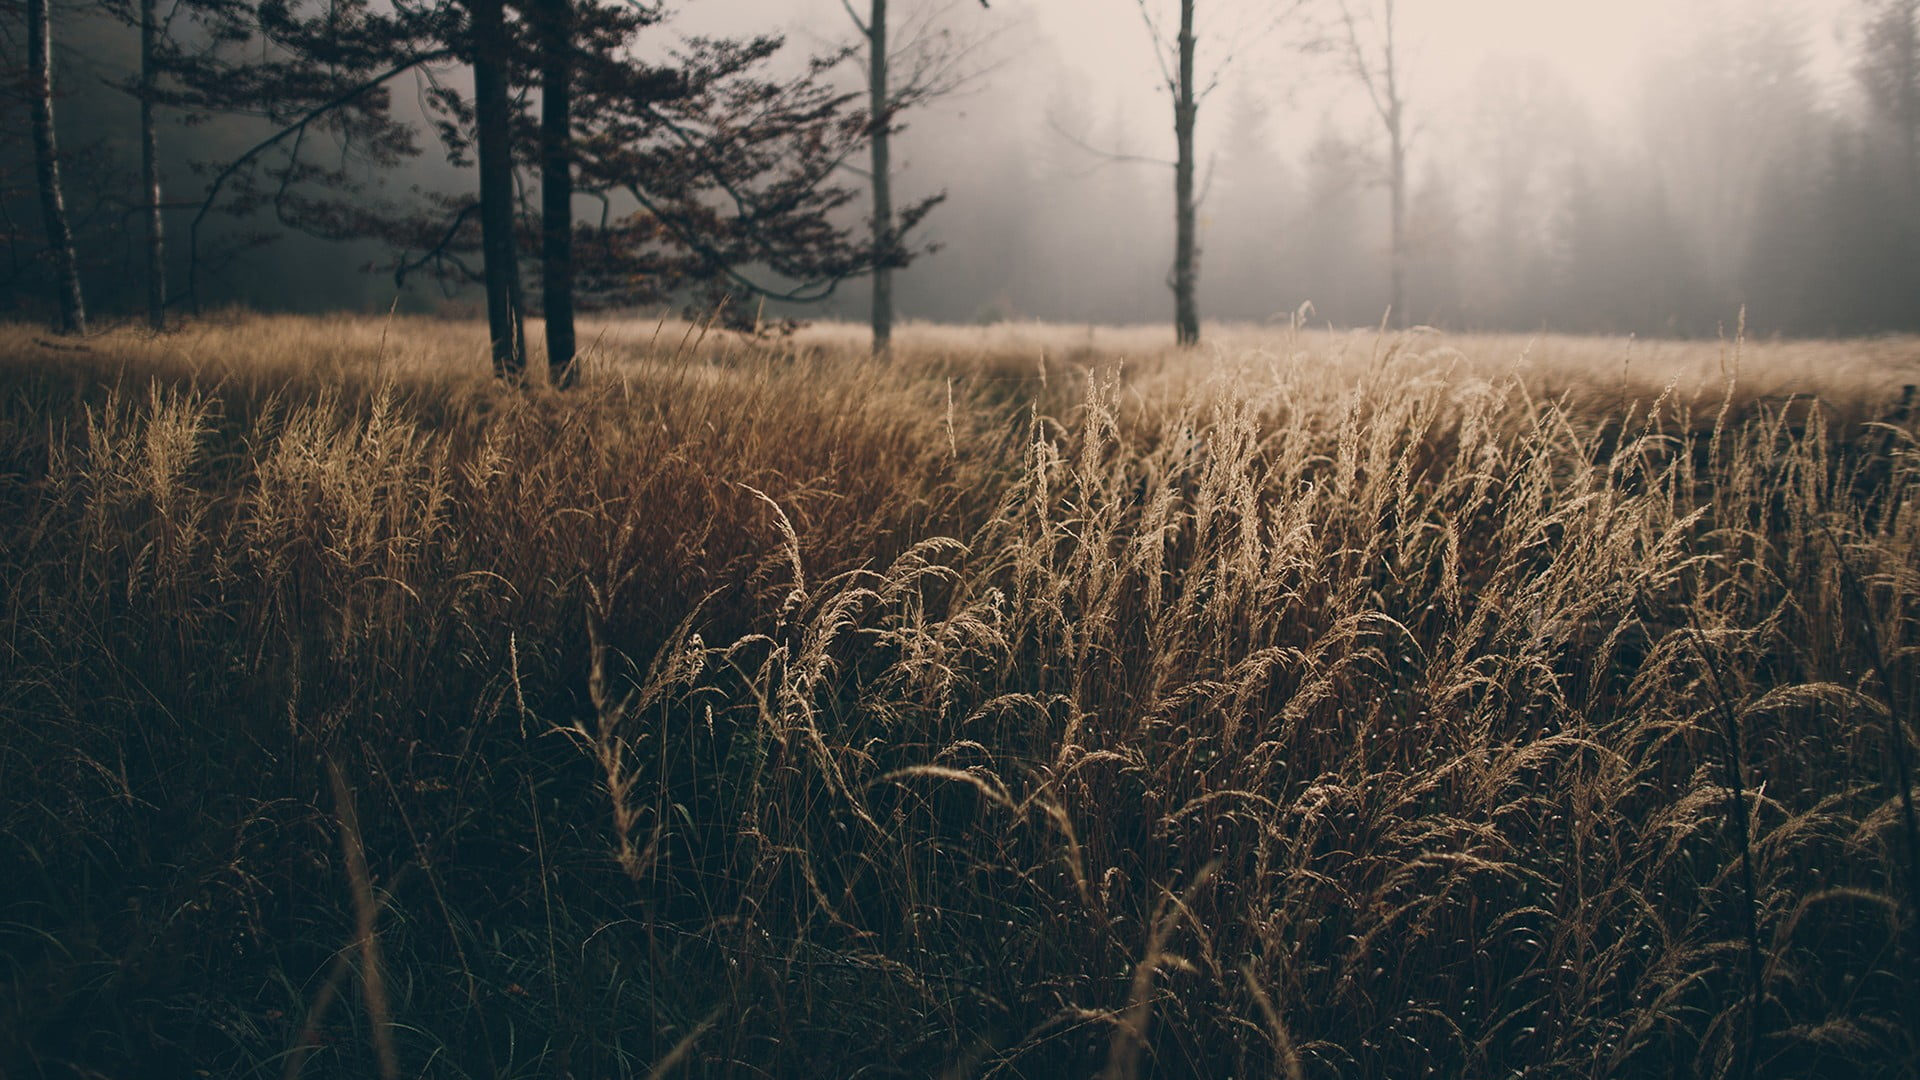
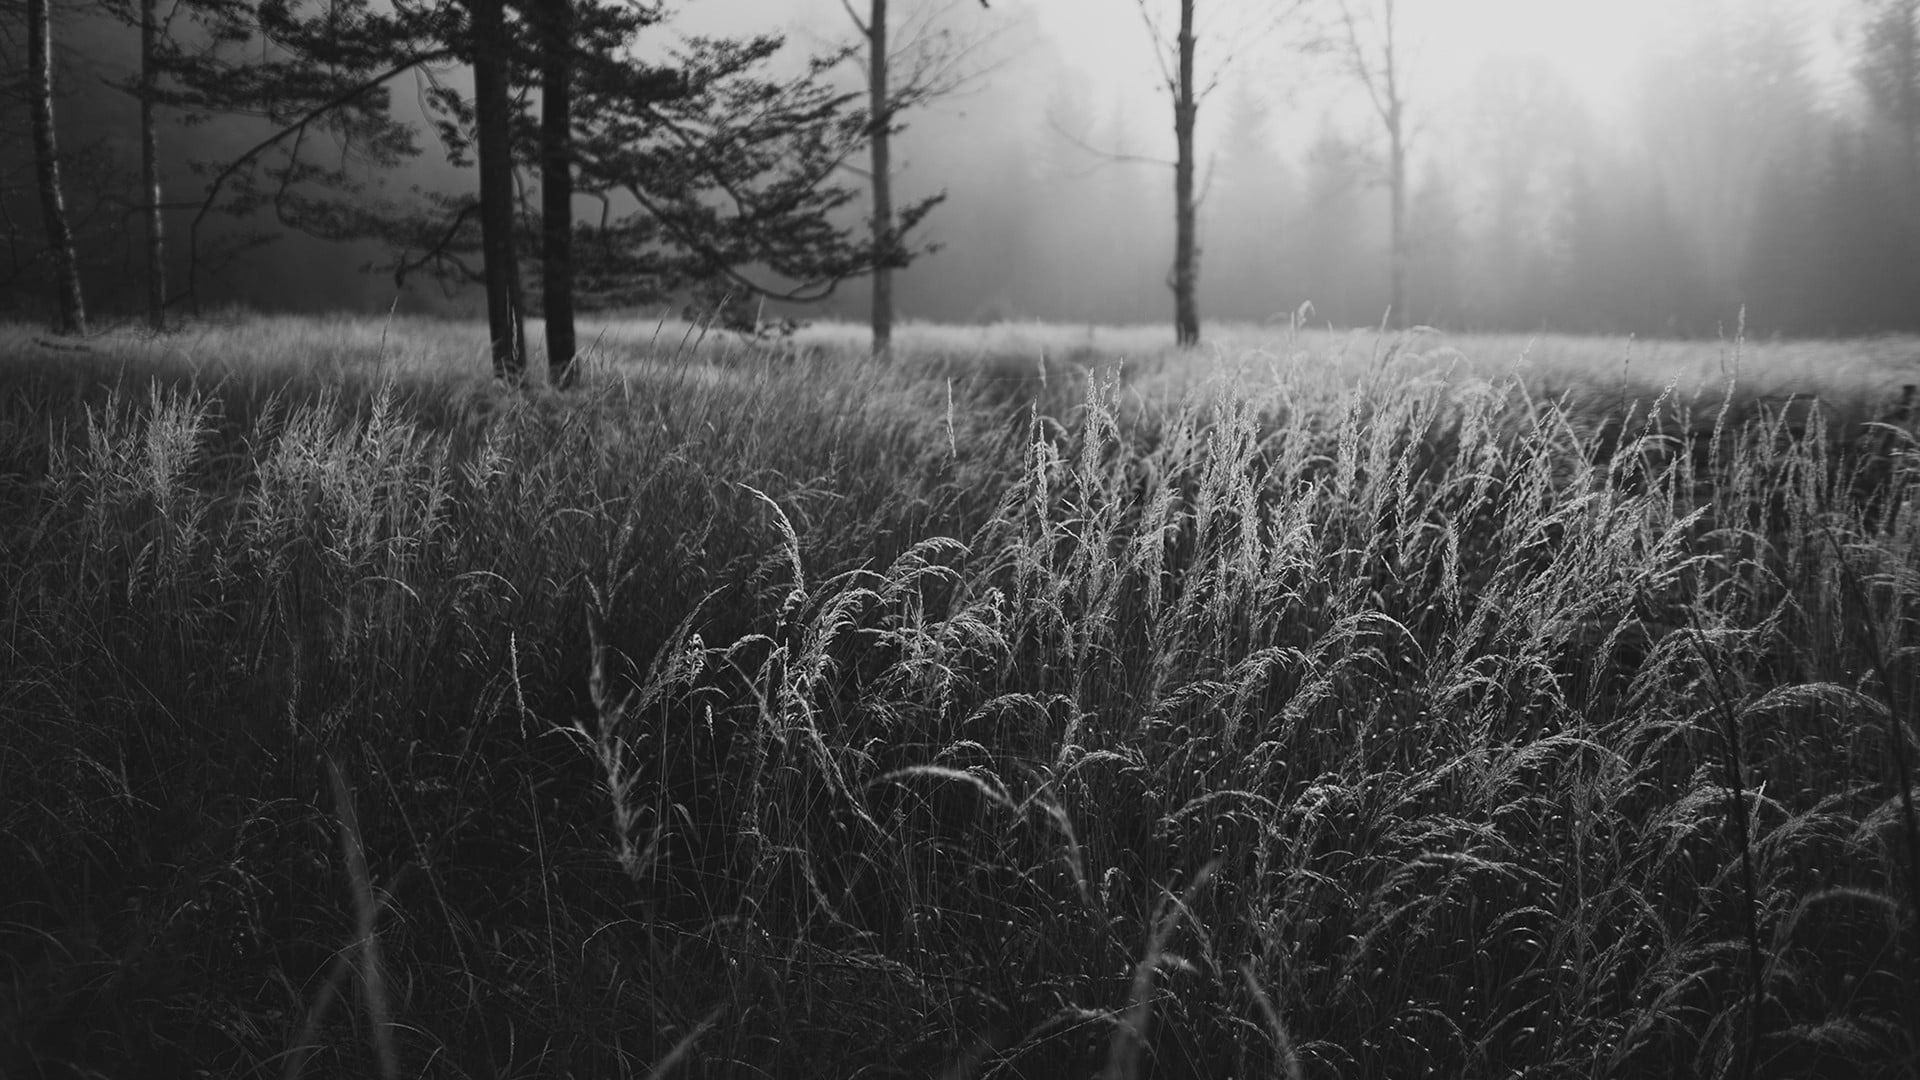
New wallpapers (configurable via hyprpaper that is located at ../dotfiles/hyprpaper/.config/hypr/hyprpaper.conf

diff --git a/waybar/.config/waybar/style.css b/waybar/.config/waybar/style.css
@@ -15,7 +15,7 @@ window#waybar {
     opacity: 0.9;
     padding: 0 8px;
     background: @background;
-    color: #454545;
+    color: #404040;
 }
 #workspaces button:hover {
     min-width: 12px; 
@@ -39,7 +39,7 @@ window#waybar {
 }
 #network {
     color: #9dbcd4;
-    padding-right: 6px;
+    padding: 6px;
 }
 
 #tray {
@@ -49,7 +49,7 @@ window#waybar {
 /* Battery Module */
 #battery {
     color: #9ab69b;
-    padding: 6px
+    padding: 7px
 }
 
 #pulseaudio {

diff --git a/waybar/.config/waybar/colors.css b/waybar/.config/waybar/colors.css
@@ -1,7 +1,7 @@
 @define-color background-darker #222222;
 @define-color background #252525;
 @define-color selection #545454;
-@define-color foreground #eeeeee;
+@define-color foreground #EEEEEE;
 @define-color comment #dfdfdf;
 @define-color cyan #8be9fd;
 @define-color green #50fa7b;
